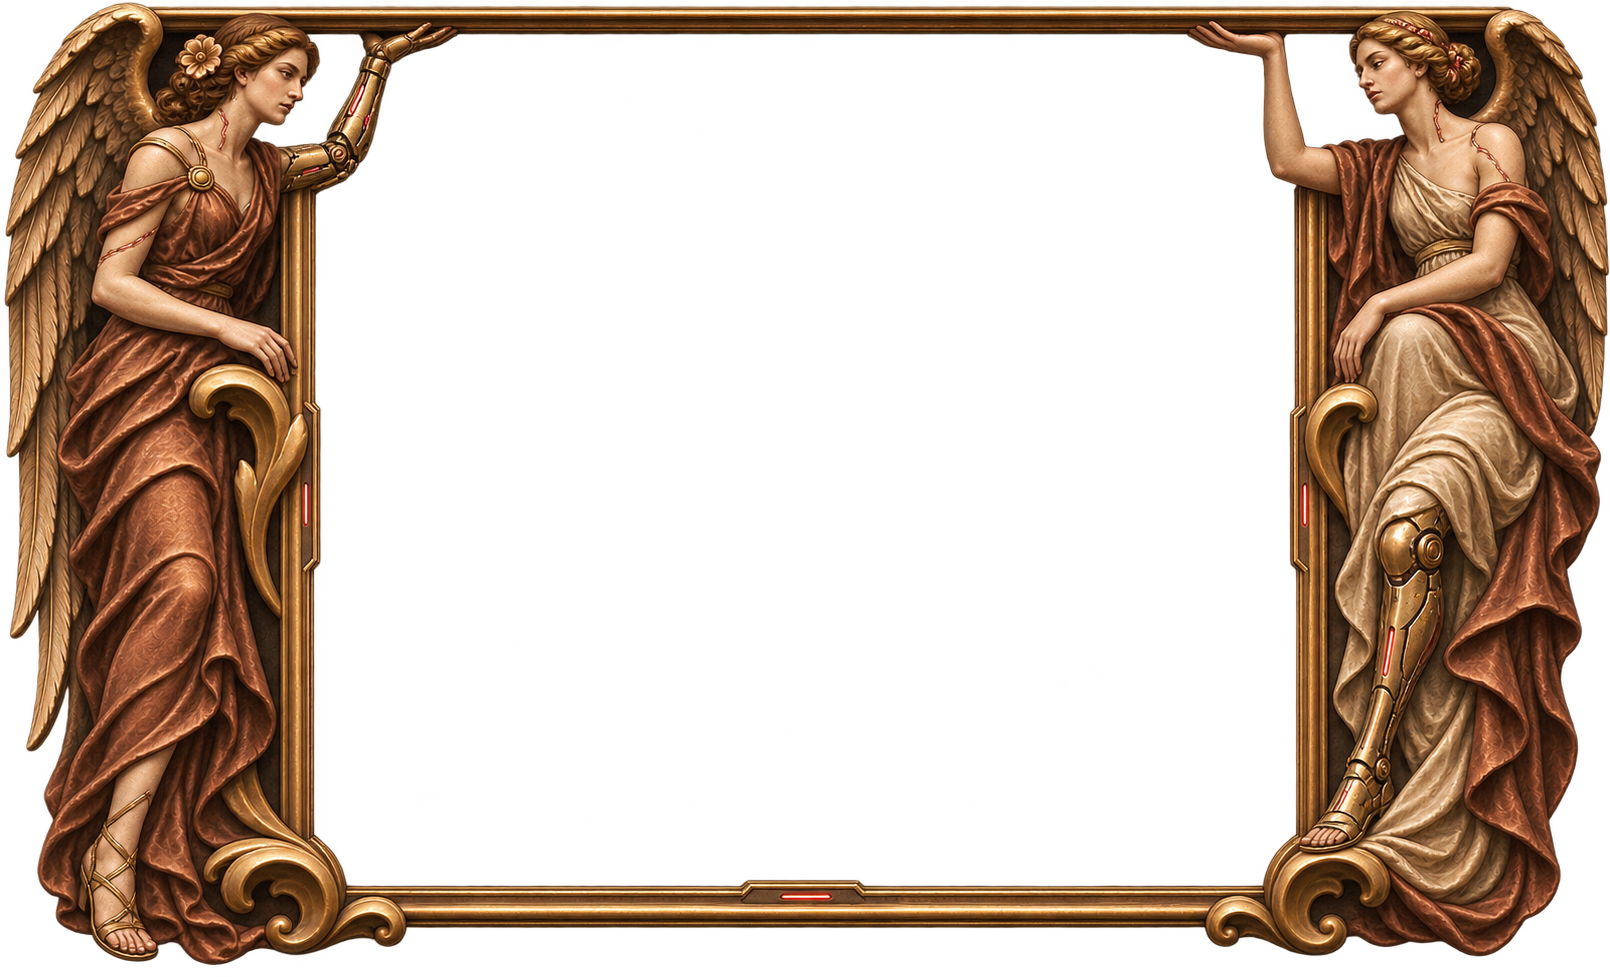
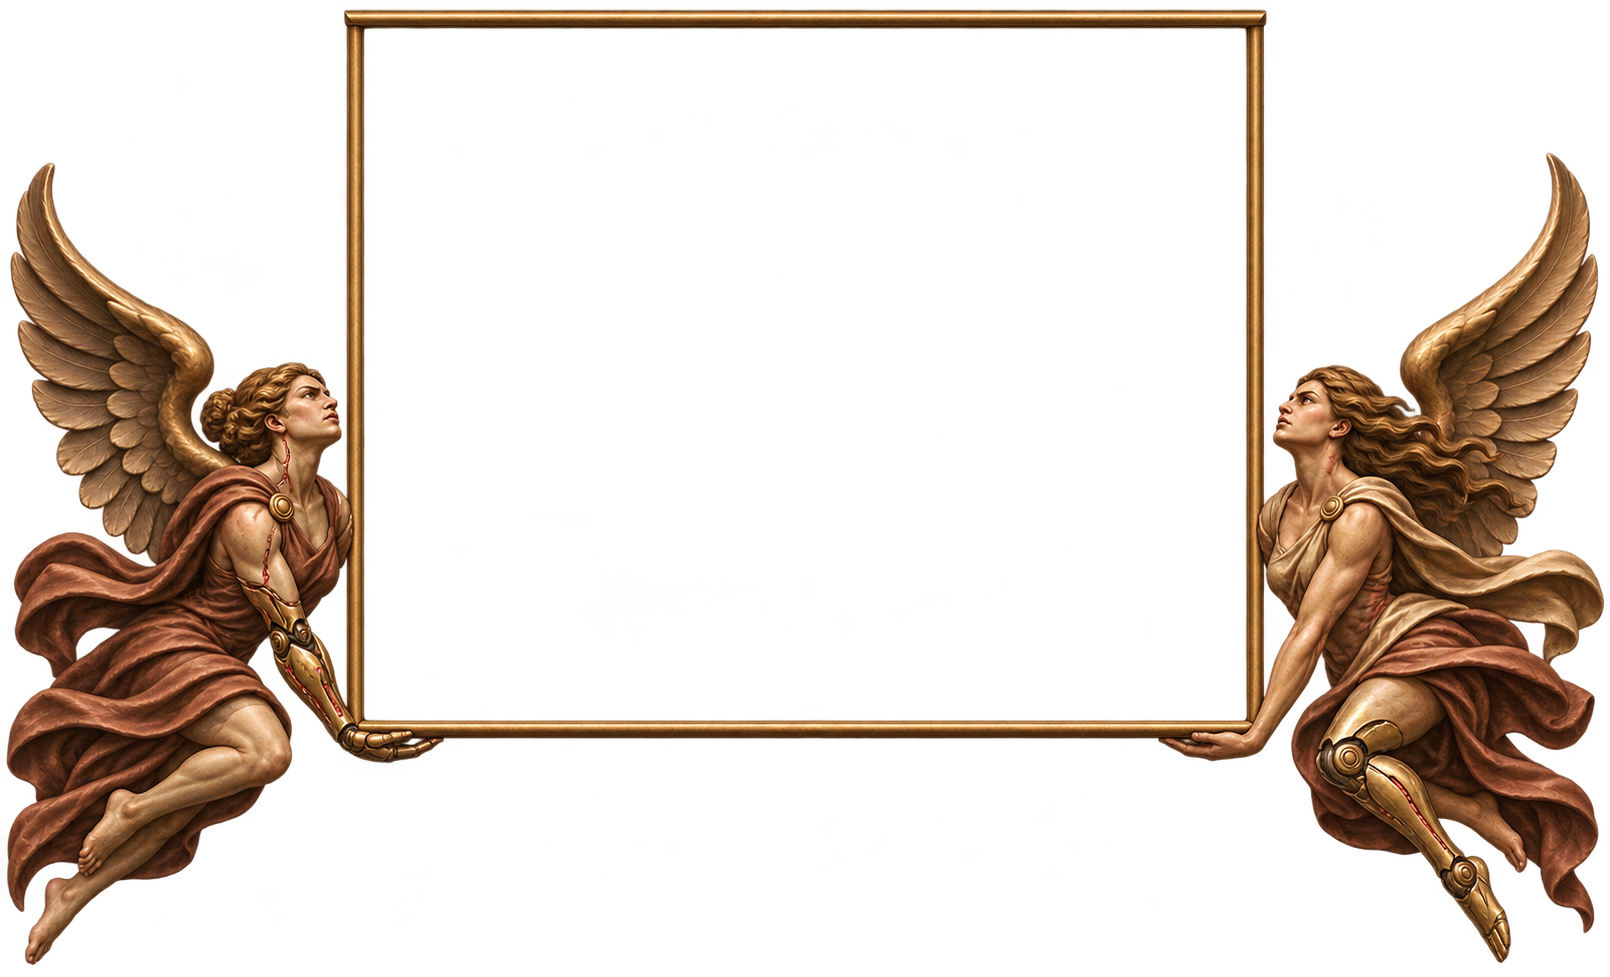
fix(swaync): show flying angels supporting frame from below

diff --git a/swaync/style.css b/swaync/style.css
@@ -219,7 +219,7 @@
     background-position: center, center;
     background-size: 100% 100%, 100% 100%;
     color: @foreground;
-    padding: 120px 224px 80px;
+    padding: 40px 256px 184px;
     border: none;
     box-shadow: none;
 }
@@ -264,8 +264,8 @@ scrollbar slider:hover {
    ==================================================== */
 
 .widget {
-    margin: 3px 0;
-    padding: 8px 12px;
+    margin: 2px 0;
+    padding: 6px 12px;
     background: @surface;
     border: 1px solid @line;
     border-left: 2px solid @color1;
@@ -337,7 +337,7 @@ scrollbar slider:hover {
 
 /* Buttons grid */
 .widget-buttons-grid {
-    padding: 6px;
+    padding: 3px;
 }
 
 .widget-buttons-grid > flowbox > flowboxchild > button {
@@ -423,7 +423,7 @@ scrollbar slider:hover {
 }
 
 .widget-mpris .widget-mpris-player .mpris-overlay {
-    padding: 10px;
+    padding: 6px;
     background-color: @surface-raised;
 }
 

diff --git a/wallust/assets/notification-angels-frame.prompt.md b/wallust/assets/notification-angels-frame.prompt.md
@@ -1,10 +1,8 @@
-Use case: stylized-concept
-Asset type: transparent PNG frame overlay for a landscape notification panel anchored immediately below a desktop bar; target about 1056x640, aspect ratio 1.65:1.
-Input images: Image 1 is the only style reference. Match its dimensional sculpted antique bronze, copper, and gold finish, rich carved relief, polished highlights, and classical baroque art quality. Do not copy its layout or figures.
-Scene/backdrop: isolated ornament, true transparent background.
-Subject: a restrained, elegant cyber-baroque angel frame with two beautiful adult angel women in serious, composed classical poses, clearly full or three-quarter bodies rather than busts. Distinct identities and asymmetric positions. At upper left, an angel leans inward from the outside left rail, supporting the frame with a visibly articulated elegant robotic arm and natural other limbs. At upper right, a different angel sits along the outside right rail, with a visibly robotic lower leg extending down the OUTSIDE of the opening; her arms are organic. Both have subtly integrated fine cybernetic seams and discreet copper accents. Large feathered wings are folded down the outer sides, contained outside the opening. Classical draped cloth flows down the side rails. Faces are lifelike, serene and serious; no smiles, no anime styling.
-Composition/framing: landscape about 1.65:1. The frame's single simple straight thin top rail is exactly flush with the top canvas edge; no art or padding above it, no pediment, crest or protruding decoration. Both angels' heads, wings, bodies and ornaments are wholly at or below the top edge. Their hands hold/support the top rail from below at the outer corners. The central rectangular aperture is completely transparent, broad and clean, approximately x=22%-78% and y=5%-91%. Keep all figures, wings, limbs and cloth outside that aperture. Narrow sculpted side moulding with only a few large simple acanthus curves. Quiet lower border with minimal ornament. Overall silhouette fits within canvas, with minimal transparent safety padding at sides and bottom.
-Style/material: match the original reference's dimensional sculpted bronze/copper/gold art exactly in material and workmanship; restrained classical baroque ornament, realistic sculptural faces and hands, delicately articulated mechanical arm and leg, finely sculpted folded feathers and drapery. Keep metal colors natural for later palette recoloring.
-Lighting: refined studio highlights over deep relief, elegant and controlled, no glow.
-Text: none.
-Constraints: no children, cherubs, putti, extra heads, extra figures, smiling expressions, anime or cartoon styling, cluttered curls, dense ornament, huge circuitry patterns, frame detail above the flush top rail, text, logos, watermark, background, or UI. True alpha transparency both in the aperture and outside the ornament.
+Use case: stylized-concept.
+Asset type: transparent PNG landscape frame for an on-screen notification panel, entire canvas ratio 1.65:1 (approx. 1610x977).
+Input image: Image 1 is strictly a style reference for classic sculpted antique gold/bronze/copper angel art. Do not copy its frame design or figures.
+Composition is critical: draw a single large, vertically deep rectangular aperture filling most of the canvas height. The simple top rail is a straight thin horizontal edge at y=0. The lower rail is a matching straight horizontal edge at y=80% of image height. Narrow vertical side rails connect y=0 down to y=80%. The clear opening spans x=22%-78% and y=5%-79%, a tall open rectangle. Do not make a half-height frame. Do not put the lower rail near y=50%. There is no second rail. Keep the entire frame landscape in the wide 1.65:1 canvas.
+Subject: two distinct beautiful adult angel women in serious, effortful flight poses outside the left and right side rails. Their bodies are placed along the outer margins at midheight and lower corners, not beneath the entire frame. The left angel flies diagonally upward and inward alongside the left rail; her elegant articulated robotic arm reaches under the lower-left corner of the bottom rail, palm up and visibly pressing beneath it. The right angel flies diagonally upward and inward beside the right rail; her organic arm reaches under the lower-right corner, palm up visibly bearing weight. Both hands physically touch and support the underside of the lower rail at y≈80%. Show shoulders lifting and bodies straining; faces focused and serious, not smiling. Their lower bodies trail diagonally outward and downward outside the side rails, with bent knees and pointed feet. Wings sweep upward and outward in flight, staying entirely in outer margins. The right angel has one clearly visible robotic leg extending down outside the opening.
+Aperture safety: keep every angel, wing, limb, and draped cloth outside x=22%-78% at all heights. Clear content area x=22%-78%, y=20%-79% must be fully transparent and free of ornaments.
+Style: refined dimensional sculpted bronze/gold/copper matching original reference, clean restrained frame, broad smooth cloth and wing shapes, modest simple curves, minimal feather detail, narrow rails, quiet bottom border. Natural metal color suitable for later palette recoloring. Serious lifelike classical faces; subtle fine cybernetic seams.
+Constraints: no seated/standing/idle poses, no heads above y=0, no top pediment or crest, no angels touching top rail, no floating palms, no centerline bottom rail at y=50%, no extra figures/cherubs, no dense curls or flowers, no glow, text, logo, watermark, background, or UI. Real transparent alpha in opening and outside silhouette. Full subject silhouettes inside canvas.

diff --git a/docs/voluta/integrations/surfaces.md b/docs/voluta/integrations/surfaces.md
@@ -79,9 +79,11 @@ policy. Generated files are ignored and must not be committed.
 
 SwayNC opens a wide, top-centered framed panel below Waybar. Its exclusive-zone
 handling stays enabled; the 8px top margin matches `UserSettings.lua`'s window
-grid gap. The flat upper edge has no projecting pediment. Two serious-faced adult angels
-support the restrained side mouldings: one has an articulated robotic arm, the other a visible robotic leg. Their folded wings
-and drapery remain outside the controls and archive.
+grid gap. The flat upper edge has no projecting pediment. Two serious-faced
+adult angels fly beside the frame, pressing their palms beneath its lower
+corners. One bears the weight with an articulated robotic arm; the other has
+a visible robotic leg. Spread wings and trailing drapery stay outside the
+controls and archive. Compact controls fit above the raised lower rail.
 `Super+N` toggles the panel; `Super+Shift+N` toggles the existing night-light
 filter. Waybar's notification button also toggles the panel.
 
